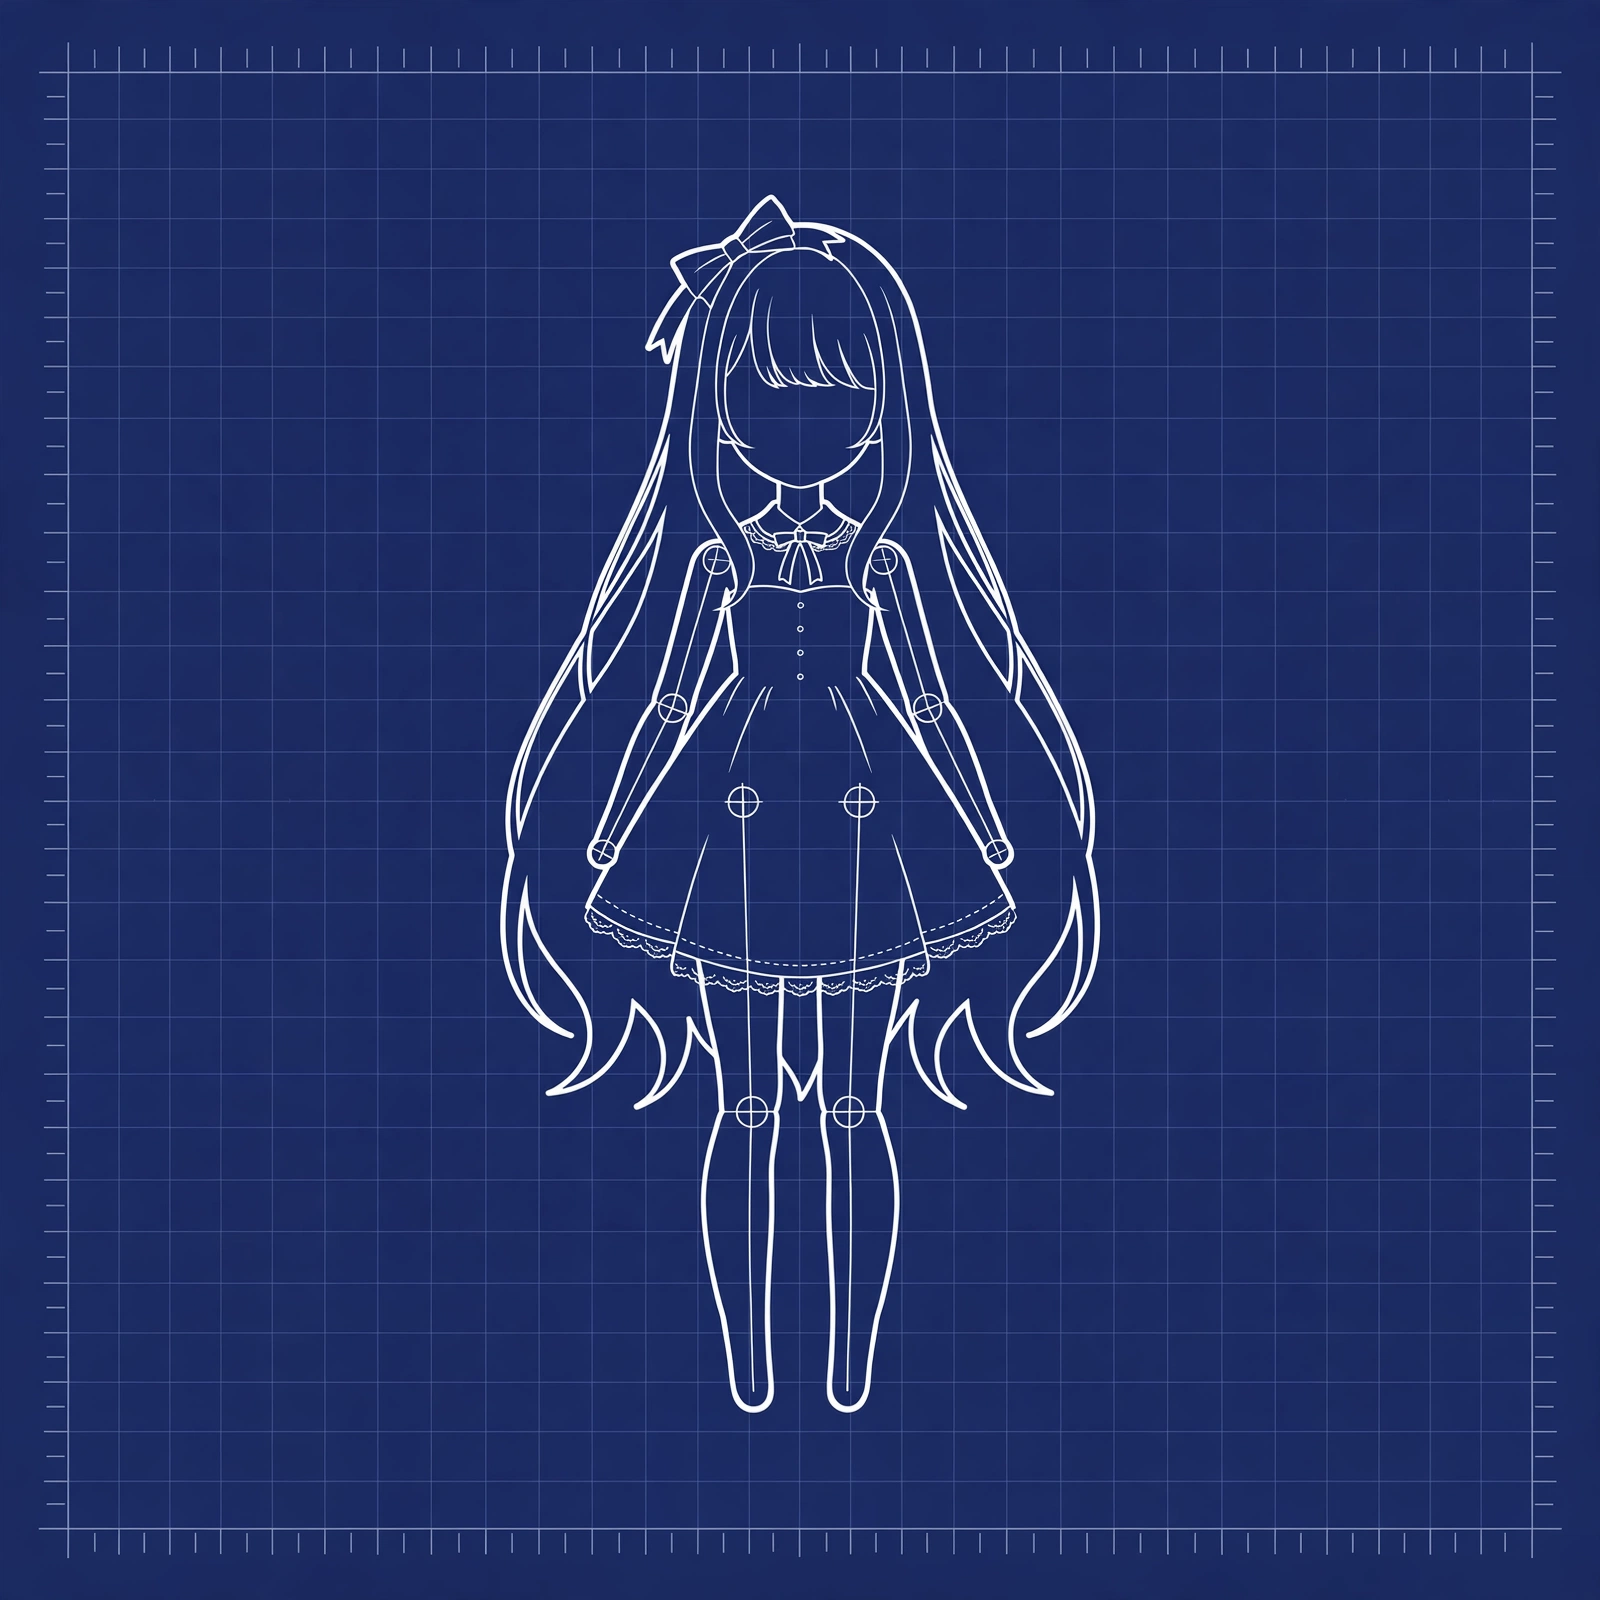
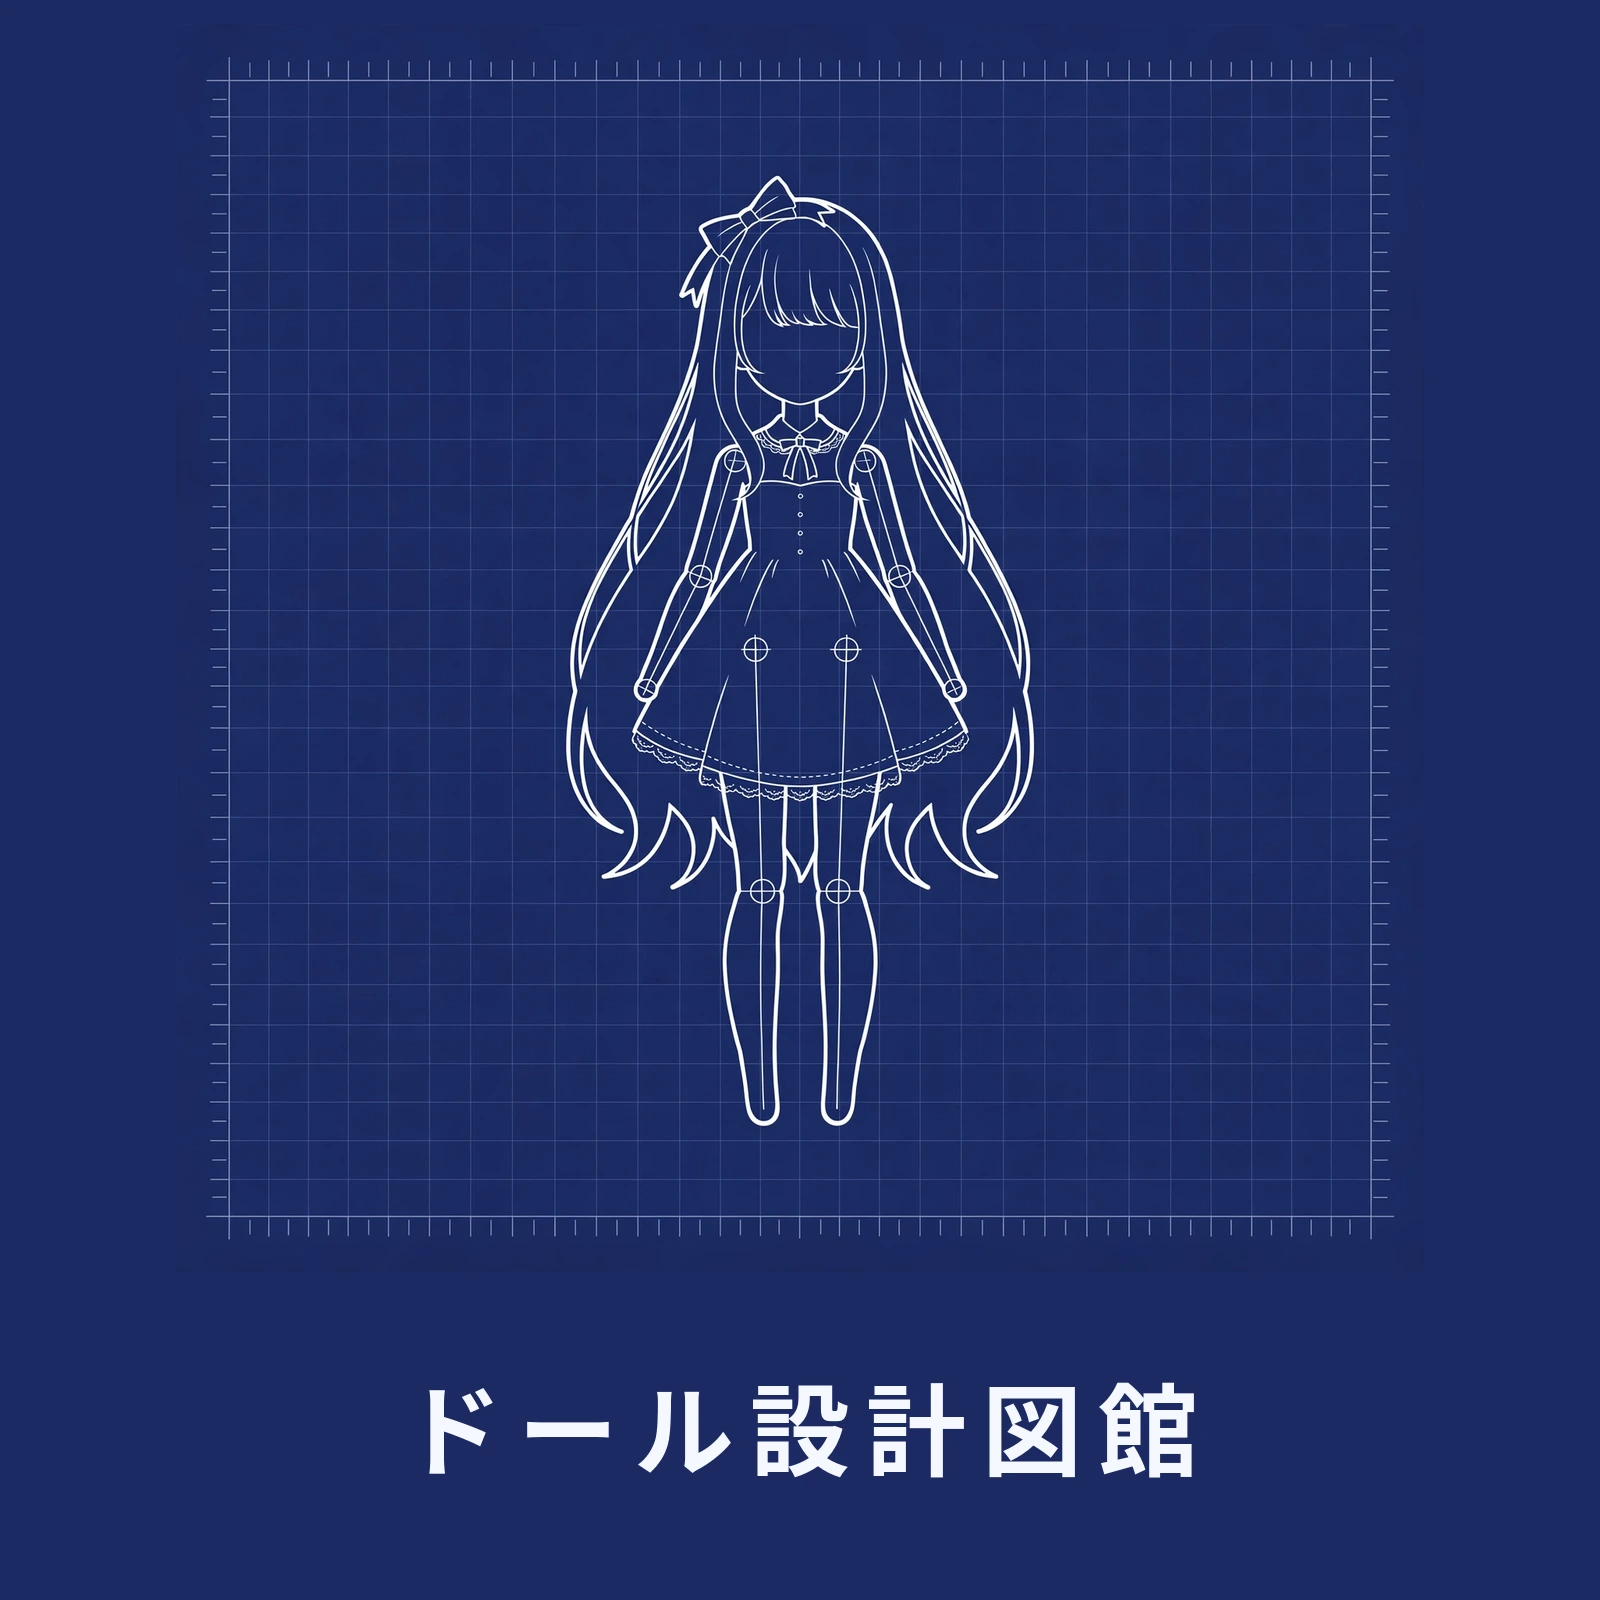
OGP画像を差し替え(ドール設計図館の文字入り)
Claude-Session: https://claude.ai/code/session_01GhR3cVb2pPmcxpTARpAQWN

diff --git a/index.html b/index.html
@@ -9,11 +9,11 @@
 <meta property="og:description" content="『永い後日談のネクロニカ』用 非公式キャラクターシート作成・保管ツール。スマホで作ってそのまま保管できます。">
 <meta property="og:type" content="website">
 <meta property="og:url" content="https://foruhu.github.io/doll-sekkeizukan/">
-<meta property="og:image" content="https://foruhu.github.io/doll-sekkeizukan/ogp.webp">
+<meta property="og:image" content="https://foruhu.github.io/doll-sekkeizukan/ogp.webp?v=2">
 <meta name="twitter:card" content="summary">
 <meta name="twitter:title" content="ドール設計図館｜ネクロニカ用 非公式キャラクターシート作成・保管ツール">
 <meta name="twitter:description" content="『永い後日談のネクロニカ』用 非公式キャラクターシート作成・保管ツール。スマホで作ってそのまま保管できます。">
-<link rel="stylesheet" href="style.css?v=113">
+<link rel="stylesheet" href="style.css?v=114">
 </head>
 <body>
 
@@ -622,16 +622,16 @@
   </div>
 </div>
 
-<script src="data.js?v=113"></script>
-<script src="app-core.js?v=113"></script>
-<script src="app-parts.js?v=113"></script>
-<script src="app-skills.js?v=113"></script>
-<script src="app-save.js?v=113"></script>
-<script src="app-dict.js?v=113"></script>
-<script src="app-image.js?v=113"></script>
-<script src="app-look.js?v=113"></script>
-<script src="app-sheetprint.js?v=113"></script>
-<script src="app-share.js?v=113"></script>
-<script src="app-main.js?v=113"></script>
+<script src="data.js?v=114"></script>
+<script src="app-core.js?v=114"></script>
+<script src="app-parts.js?v=114"></script>
+<script src="app-skills.js?v=114"></script>
+<script src="app-save.js?v=114"></script>
+<script src="app-dict.js?v=114"></script>
+<script src="app-image.js?v=114"></script>
+<script src="app-look.js?v=114"></script>
+<script src="app-sheetprint.js?v=114"></script>
+<script src="app-share.js?v=114"></script>
+<script src="app-main.js?v=114"></script>
 </body>
 </html>
